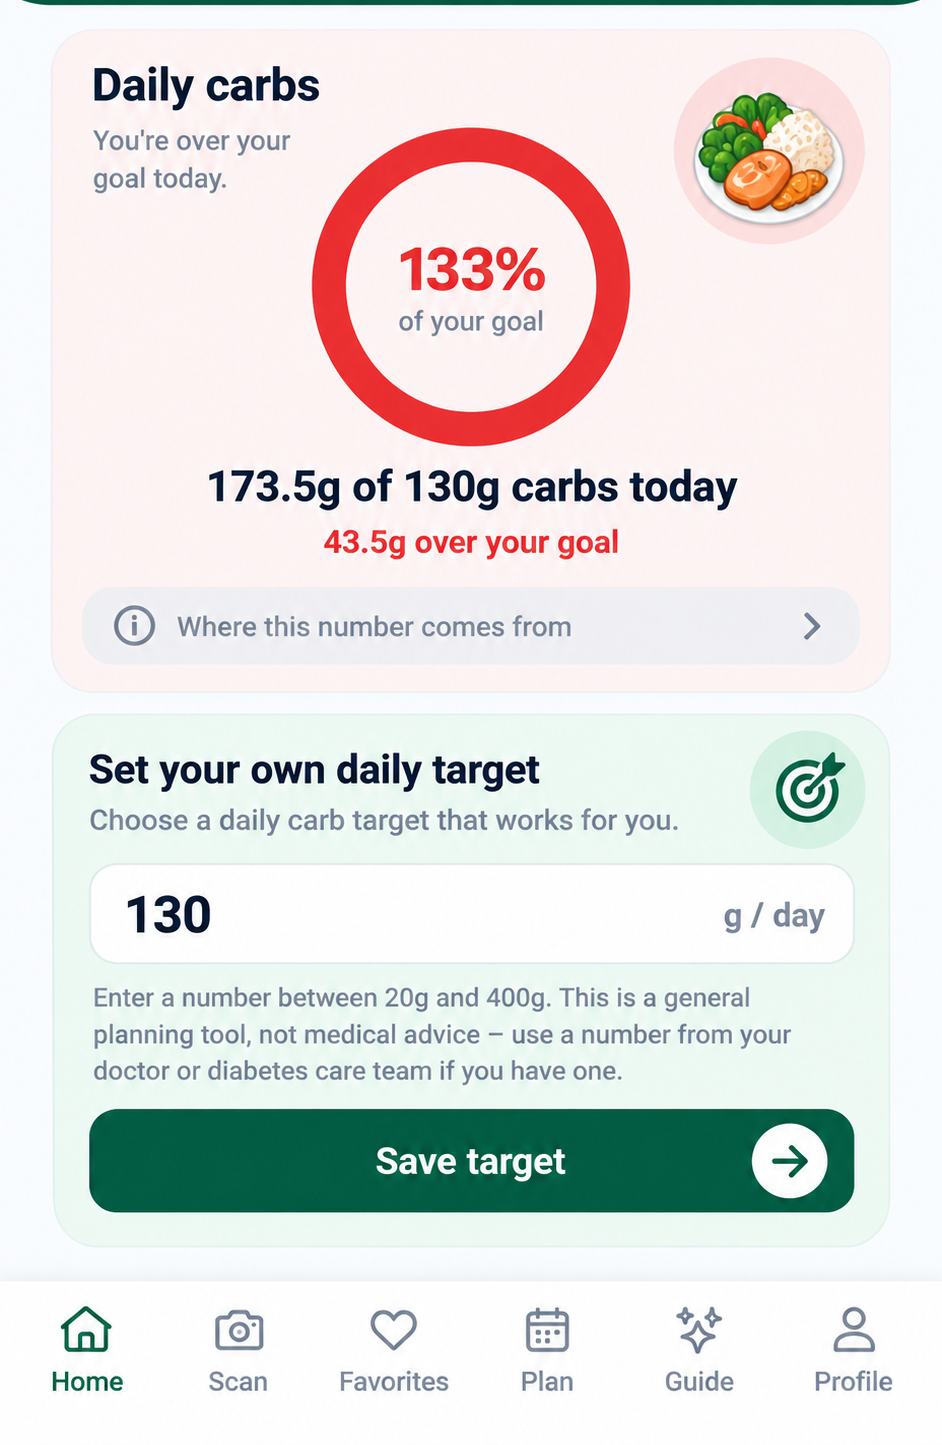
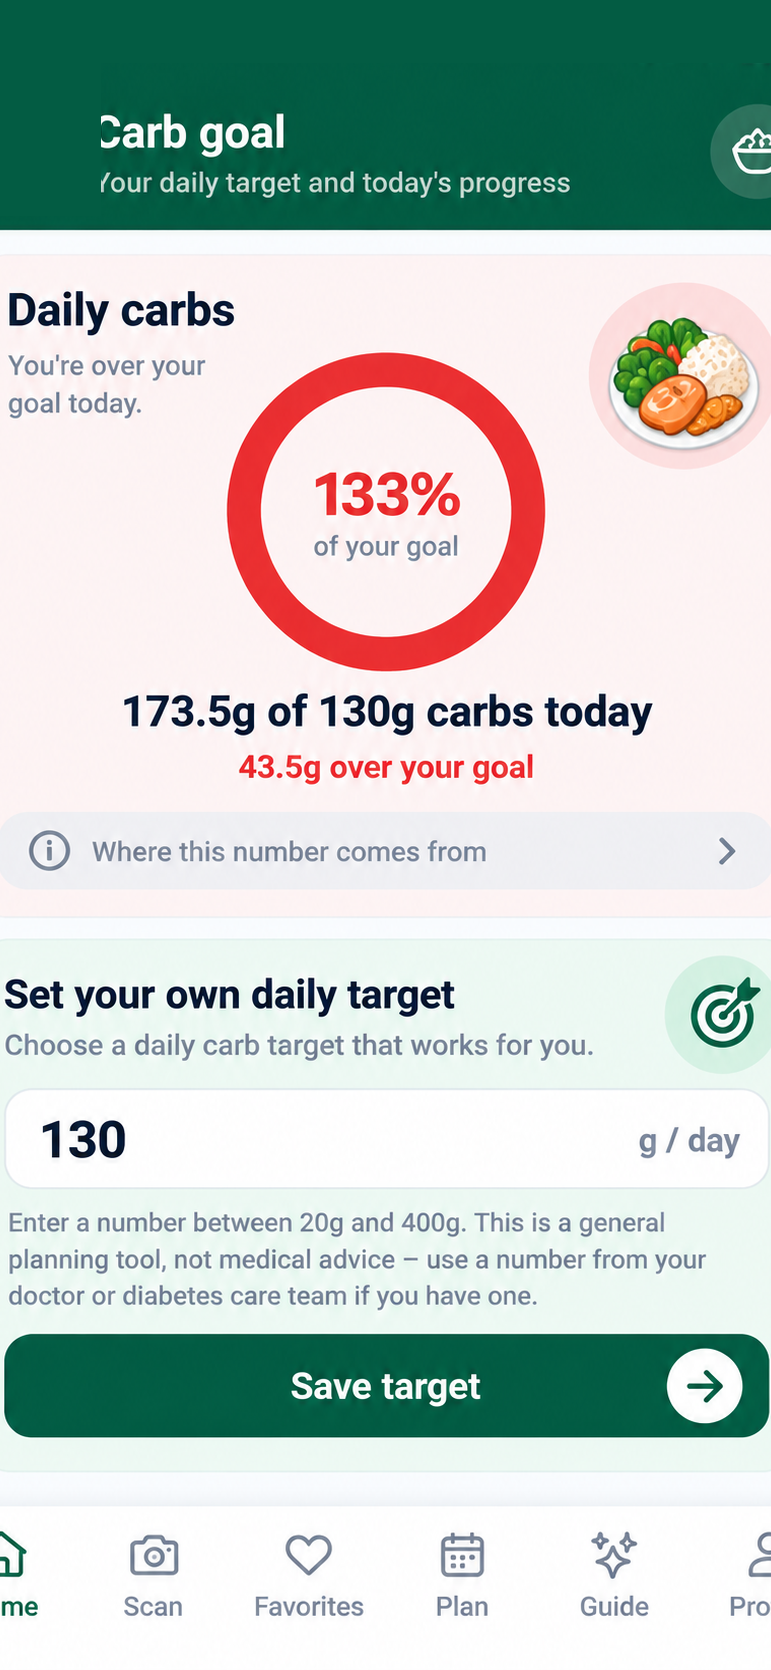
Fill the phone frame edge-to-edge without status bar/back button
object-contain left visible empty margins top/bottom, making these 3
cards look small next to the others. Instead, erase just the status
bar and back-button circle in place (fill with the header's own flat
color) and crop width to match the phone bezel ratio almost exactly,
so the screenshot fills the frame edge-to-edge like every other card
while still hiding the in-app navigation chrome.

diff --git a/landing-page/components/Features.js b/landing-page/components/Features.js
@@ -213,7 +213,7 @@ export default function Features() {
                 alt={active.alt}
                 fill
                 sizes="260px"
-                className="object-contain"
+                className="object-cover"
               />
             </div>
             {/* Dynamic Island notch */}
